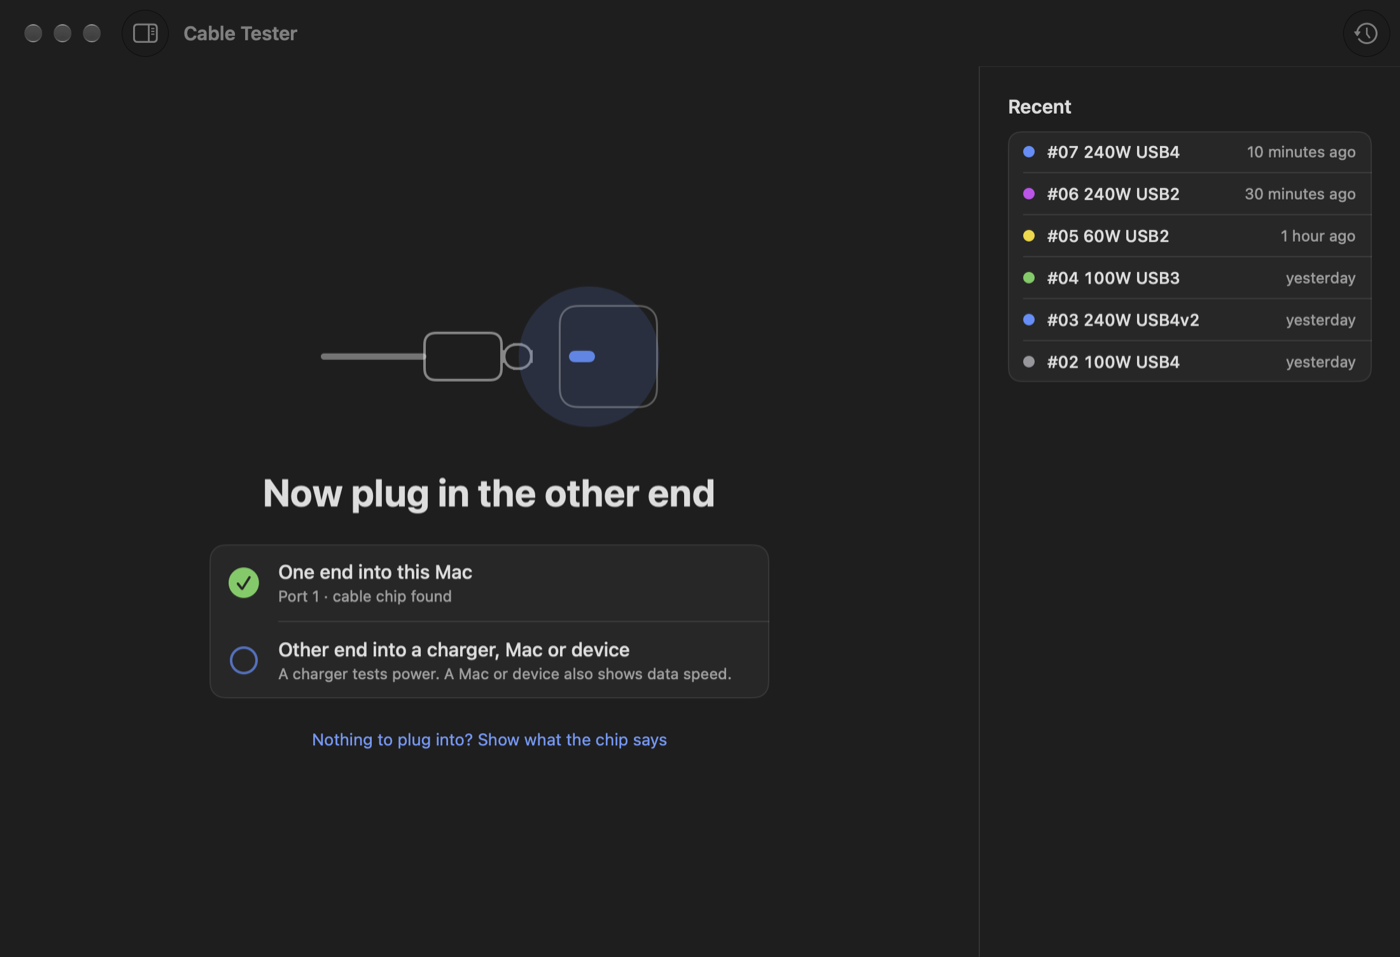
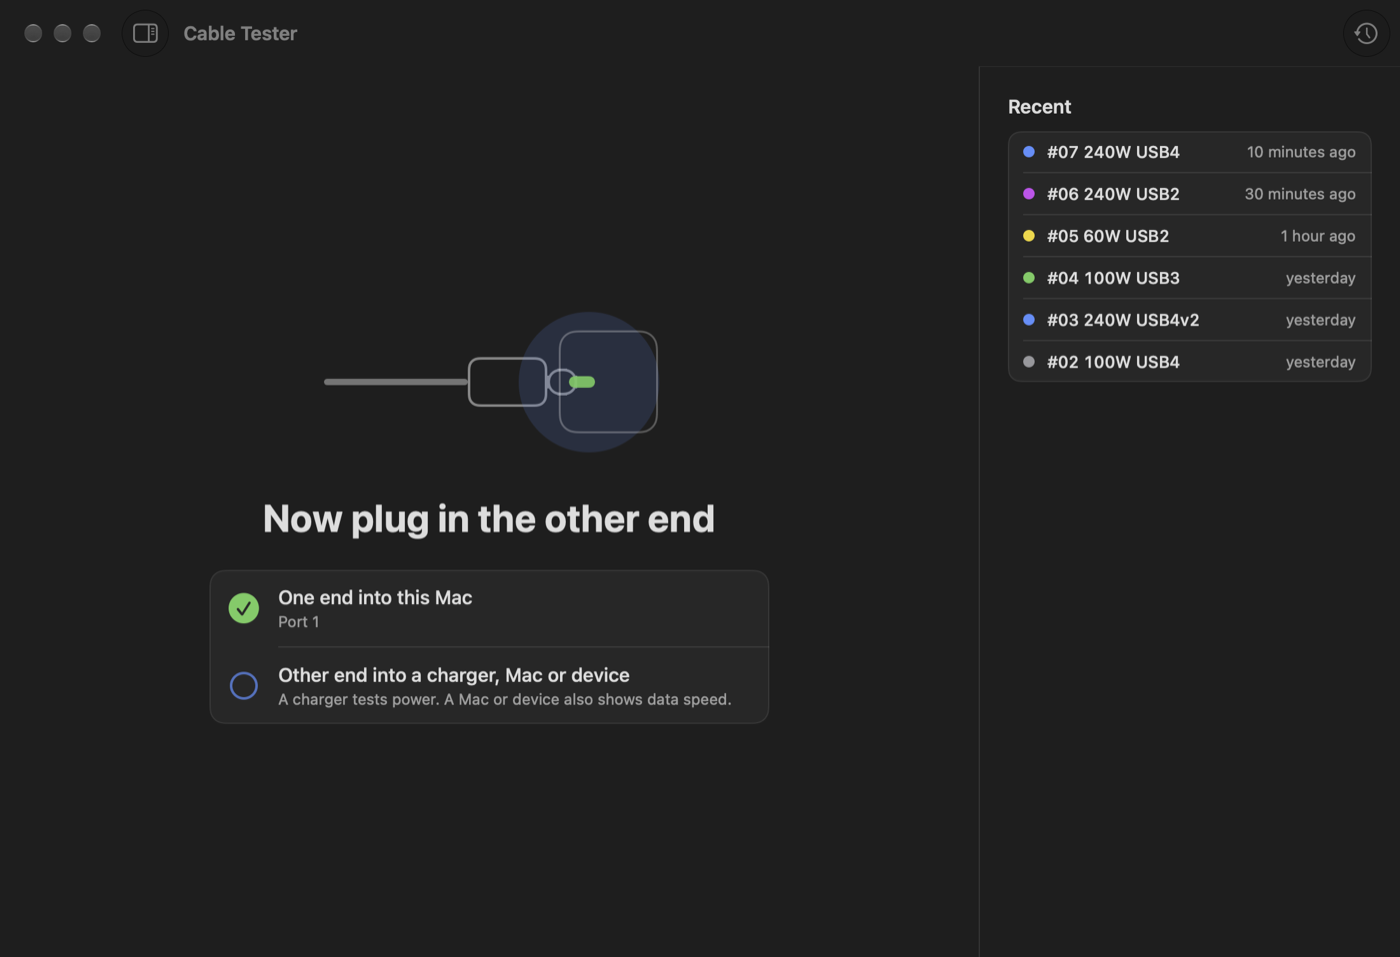
feat(now): plug slides in, spring checks; drop chip-before-far-end UI
The Mac cannot read the chip until the far end is connected (docs/emarker.md),
so the 'cable chip found' detail and 'show what the chip says' link could never
appear. Adds the approved animation mockup (.impeccable/plug-animation.html).

Claude-Session: https://claude.ai/code/session_01SkyGaV5TrCqkCmeLbS41R6

Changed region(s): [[0.1536, 0.303, 0.5221, 0.7879]]

diff --git a/.impeccable/plug-animation.html b/.impeccable/plug-animation.html
@@ -1,0 +1,157 @@
+<!doctype html>
+<html lang="en">
+<head>
+<meta charset="utf-8">
+<meta name="viewport" content="width=device-width, initial-scale=1">
+<title>Plug-in Animation</title>
+<style>
+  :root {
+    --page: #141416; --win: #1e1e1e; --group: rgba(255,255,255,.045); --stroke: rgba(255,255,255,.09);
+    --text: #f5f5f7; --sec: rgba(235,235,245,.6); --ter: rgba(235,235,245,.3);
+    --green: #32d74b; --blue: #0a84ff;
+  }
+  * { box-sizing: border-box; }
+  body { margin: 0; padding: 28px 16px 40px; background: var(--page); color: var(--text);
+         font: 14px -apple-system, BlinkMacSystemFont, "SF Pro Text", system-ui, sans-serif; }
+  h1 { font-size: 20px; font-weight: 600; margin: 0 auto 4px; max-width: 1100px; }
+  .sub { color: var(--sec); margin: 0 auto 18px; max-width: 1100px; }
+
+  /* The window: real snapshots at 1100 x 752, the checklist drawn live on top. */
+  .stage { position: relative; width: 1100px; max-width: 100%; aspect-ratio: 1100 / 752; margin: 0 auto;
+           border-radius: 12px; overflow: hidden; box-shadow: 0 20px 60px rgba(0,0,0,.55); container-type: inline-size; }
+  .stage img { position: absolute; inset: 0; width: 100%; height: 100%; display: block; }
+  .result { opacity: 0; transform: scale(.98); transition: opacity .35s ease, transform .35s cubic-bezier(.3,1.3,.5,1); }
+  .stage.show-result .result { opacity: 1; transform: none; }
+
+  /* everything below is in units of the 1100 px window, scaled with cqw */
+  .pane { position: absolute; left: 0; top: 6.9%; width: 69.8%; bottom: 0; background: var(--win);
+          display: flex; flex-direction: column; align-items: center; justify-content: center; gap: 2.2cqw; }
+  .illus { width: 23.6cqw; height: 11.8cqw; position: relative; }
+  .illus .wire { position: absolute; left: 0; top: 50%; width: 30%; height: .45cqw; margin-top: -.22cqw; background: rgba(235,235,245,.42); border-radius: 1cqw;
+                 transition: transform .5s ease; }
+  .illus .plug { position: absolute; left: 30%; top: 35%; width: 24%; height: 30%; border: .18cqw solid rgba(235,235,245,.5); border-radius: .8cqw;
+                 transition: transform .5s cubic-bezier(.3,1.2,.5,1); }
+  .illus .tip { position: absolute; left: 54%; top: 42%; width: 9%; height: 16%; border: .18cqw solid rgba(235,235,245,.5); border-radius: 1cqw;
+                transition: transform .5s cubic-bezier(.3,1.2,.5,1); }
+  .illus .glow { position: absolute; left: 62%; top: 7.5%; width: 37%; aspect-ratio: 1; border-radius: 50%; background: var(--blue);
+                 filter: blur(.5cqw); animation: glow 1.6s ease-in-out infinite alternate; }
+  .illus .port { position: absolute; left: 71%; top: 19%; width: 30%; height: 62%; border: .14cqw solid rgba(235,235,245,.32); border-radius: 1.3cqw; }
+  .illus .slot { position: absolute; left: 74%; top: 46.5%; width: 8%; height: 7%; border-radius: 1cqw; background: var(--blue); opacity: .9;
+                 transition: background .3s; }
+  @keyframes glow { from { opacity: .08 } to { opacity: .22 } }
+  .s1 .illus .plug, .s2 .illus .plug, .s3 .illus .plug { transform: translateX(3.2cqw); }
+  .s1 .illus .tip,  .s2 .illus .tip,  .s3 .illus .tip  { transform: translateX(3.2cqw); }
+  .s1 .illus .wire, .s2 .illus .wire, .s3 .illus .wire { transform: scaleX(1.95); transform-origin: left; }
+  .s1 .illus .slot, .s2 .illus .slot, .s3 .illus .slot { background: var(--green); }
+
+  .title { font-size: 2.75cqw; font-weight: 700; letter-spacing: -.01em; height: 3.4cqw; position: relative; width: 60cqw; text-align: center; }
+  .title span { position: absolute; inset: 0; opacity: 0; transition: opacity .25s ease; }
+  .s0 .title .t0, .s1 .title .t1, .s2 .title .t2, .s3 .title .t2 { opacity: 1; }
+
+  .list { width: 40cqw; background: var(--group); border: 1px solid var(--stroke); border-radius: 1.1cqw; }
+  .row { display: flex; align-items: center; gap: 1.27cqw; padding: 1.1cqw 1.27cqw; }
+  .row + .row { border-top: 1px solid var(--stroke); margin-left: 0; }
+  .mark { width: 2.36cqw; height: 2.36cqw; position: relative; flex: none; }
+  .ring { position: absolute; inset: .18cqw; border-radius: 50%; border: .18cqw solid rgba(235,235,245,.3); transition: opacity .2s; }
+  .ring.active { border-color: var(--blue); animation: ring 1.6s ease-in-out infinite alternate; }
+  @keyframes ring { from { opacity: .45 } to { opacity: 1 } }
+  .check { position: absolute; inset: 0; opacity: 0; transform: scale(.4); }
+  .check svg { width: 100%; height: 100%; display: block; }
+  .check path { stroke-dasharray: 20; stroke-dashoffset: 20; }
+  .row.done .ring { opacity: 0; }
+  .row.done .check { opacity: 1; transform: scale(1); transition: opacity .15s, transform .45s cubic-bezier(.3,1.8,.5,1); }
+  .row.done .check path { stroke-dashoffset: 0; transition: stroke-dashoffset .3s .12s ease-out; }
+  .row .label { font-size: 1.36cqw; font-weight: 500; color: var(--sec); transition: color .2s; }
+  .row.done .label, .row.on .label { color: var(--text); }
+  .row .detail { font-size: 1.09cqw; color: var(--sec); margin-top: .18cqw; position: relative; height: 1.5cqw; }
+  .row .detail span { position: absolute; left: 0; white-space: nowrap; transition: opacity .25s; }
+  .row .detail .after { opacity: 0; }
+  .row.done .detail .before { opacity: 0; }
+  .row.done .detail .after { opacity: 1; }
+  .foot { font-size: 1.09cqw; color: var(--ter); height: 1.6cqw; text-align: center; transition: opacity .25s; }
+  .s1 .foot, .s2 .foot, .s3 .foot { opacity: 0; }
+
+  .controls { max-width: 1100px; margin: 16px auto 0; display: flex; flex-wrap: wrap; gap: 8px; align-items: center; }
+  button { font: inherit; color: var(--text); background: #2c2c2e; border: 1px solid #3a3a3c; border-radius: 8px; padding: 6px 12px; cursor: pointer; }
+  button:hover { background: #3a3a3c; }
+  .steps { display: flex; gap: 6px; margin-left: auto; flex-wrap: wrap; }
+  .steps button.cur { border-color: var(--blue); color: #fff; }
+  .note { max-width: 1100px; margin: 14px auto 0; color: var(--sec); line-height: 1.5; }
+  .note b { color: var(--text); font-weight: 600; }
+  @media (prefers-reduced-motion: reduce) { * { animation: none !important; transition: none !important; } }
+</style>
+</head>
+<body>
+<h1>Cable Tester: plug-in animation</h1>
+<p class="sub">Loops through one test: plug the Mac end in, then the buds, then the result, then unplug.</p>
+
+<div class="stage s0" id="stage">
+  <img src="mocks/anim-base.png" alt="">
+  <div class="pane">
+    <div class="illus" aria-hidden="true">
+      <div class="glow"></div><div class="port"></div><div class="slot"></div>
+      <div class="wire"></div><div class="plug"></div><div class="tip"></div>
+    </div>
+    <div class="title">
+      <span class="t0">Plug in a cable you want to test</span>
+      <span class="t1">Now plug in the other end</span>
+      <span class="t2">Reading the cable…</span>
+    </div>
+    <div class="list">
+      <div class="row" id="r1">
+        <div class="mark"><div class="ring"></div><div class="check"><svg viewBox="0 0 24 24"><circle cx="12" cy="12" r="11" fill="#32d74b"/><path d="M7 12.5l3.3 3.3L17 9" fill="none" stroke="#fff" stroke-width="2.4" stroke-linecap="round" stroke-linejoin="round"/></svg></div></div>
+        <div><div class="label">One end into this Mac</div><div class="detail"><span class="before">Any USB-C port</span><span class="after">Port 1</span></div></div>
+      </div>
+      <div class="row" id="r2">
+        <div class="mark"><div class="ring"></div><div class="check"><svg viewBox="0 0 24 24"><circle cx="12" cy="12" r="11" fill="#32d74b"/><path d="M7 12.5l3.3 3.3L17 9" fill="none" stroke="#fff" stroke-width="2.4" stroke-linecap="round" stroke-linejoin="round"/></svg></div></div>
+        <div><div class="label">Other end into a charger, Mac or device</div><div class="detail"><span class="before">A charger tests power. A Mac or device also shows data speed.</span><span class="after">Arctis GameBuds</span></div></div>
+      </div>
+    </div>
+    <div class="foot">A cable that was already connected is ignored. Unplug and replug it to test it.</div>
+  </div>
+  <img class="result" src="mocks/anim-result.png" alt="Result: 240 W, USB 2 at 12 Mb/s">
+</div>
+
+<div class="controls">
+  <button id="play">Pause</button>
+  <button id="next">Next step</button>
+  <div class="steps" id="steps"></div>
+</div>
+<p class="note"><b>Timing:</b> each check pops in with a small bounce and draws its tick. The title cross-fades.
+After the second check, both stay on screen for 0.9 s, then the result fades and scales in.
+Unplugging fades straight back to the start.</p>
+
+<script>
+  const stage = document.getElementById('stage'), r1 = document.getElementById('r1'), r2 = document.getElementById('r2');
+  const STEPS = [
+    { name: 'Start', hold: 2200, s: 0 },
+    { name: 'Mac end in', hold: 2400, s: 1 },
+    { name: 'Other end in', hold: 900, s: 2 },
+    { name: 'Result', hold: 3200, s: 4 },
+  ];
+  let i = 0, timer = null, playing = true;
+  const stepsEl = document.getElementById('steps');
+  STEPS.forEach((st, k) => {
+    const b = document.createElement('button'); b.textContent = st.name;
+    b.onclick = () => { pause(); show(k); };
+    stepsEl.appendChild(b);
+  });
+  function show(k) {
+    i = k; const s = STEPS[k].s;
+    stage.className = 'stage s' + Math.min(s, 3) + (s === 4 ? ' s3 show-result' : '');
+    r1.className = 'row' + (s >= 1 ? ' done' : ' on');
+    r1.querySelector('.ring').classList.toggle('active', s === 0);
+    r2.className = 'row' + (s >= 2 ? ' done' : s === 1 ? ' on' : '');
+    r2.querySelector('.ring').classList.toggle('active', s === 1);
+    [...stepsEl.children].forEach((b, n) => b.classList.toggle('cur', n === k));
+  }
+  function tick() { timer = setTimeout(() => { show((i + 1) % STEPS.length); tick(); }, STEPS[i].hold); }
+  function pause() { playing = false; clearTimeout(timer); document.getElementById('play').textContent = 'Play'; }
+  document.getElementById('play').onclick = () => {
+    if (playing) pause(); else { playing = true; document.getElementById('play').textContent = 'Pause'; tick(); }
+  };
+  document.getElementById('next').onclick = () => { pause(); show((i + 1) % STEPS.length); };
+  show(0); tick();
+</script>
+</body>
+</html>

diff --git a/App/Views/NowView.swift b/App/Views/NowView.swift
@@ -9,8 +9,6 @@ struct NowView: View {
     @Binding var savingResult: CableResult?
     /// The plug session whose result is on screen (set a moment after both checks tick).
     @State private var shownKey: String?
-    /// The plug session where the user asked to see the chip before the far end was connected.
-    @State private var forcedKey: String?
 
     private var plugKey: String? {
         guard let n = monitor.focusedPort else { return nil }
@@ -26,7 +24,6 @@ struct NowView: View {
 
     private var showingResult: Bool {
         guard monitor.result != nil, let key = plugKey else { return false }
-        if forcedKey == key { return true }
         return bothEnds && (monitor.isDemo || shownKey == key)
     }
 
@@ -38,9 +35,7 @@ struct NowView: View {
                         .transition(.opacity.combined(with: .scale(scale: 0.98)))
                 } else {
                     PlugChecklistView(port: monitor.focusedPortState, result: monitor.result,
-                                      otherConnected: monitor.otherConnectedCount) {
-                        withAnimation(.snappy) { forcedKey = plugKey }
-                    }
+                                      otherConnected: monitor.otherConnectedCount)
                     .transition(.opacity)
                 }
             }
@@ -74,7 +69,6 @@ struct PlugChecklistView: View {
     var port: PortState?
     var result: CableResult?
     var otherConnected: Int
-    var showChipAnyway: () -> Void
     @State private var pulse = false
 
     private var macDone: Bool { port?.connectionActive == true }
@@ -86,7 +80,7 @@ struct PlugChecklistView: View {
 
     var body: some View {
         VStack(spacing: 24) {
-            PlugIllustration(pulse: pulse)
+            PlugIllustration(pulse: pulse, plugged: macDone)
                 .frame(width: 260, height: 130)
             Text(title).font(.system(size: 30, weight: .bold))
                 .contentTransition(.opacity)
@@ -106,8 +100,8 @@ struct PlugChecklistView: View {
             footer.frame(maxWidth: 440)
         }
         .padding(40)
-        .animation(.snappy, value: macDone)
-        .animation(.snappy, value: farDone)
+        .animation(.spring(response: 0.45, dampingFraction: 0.6), value: macDone)
+        .animation(.spring(response: 0.45, dampingFraction: 0.6), value: farDone)
         .onAppear { withAnimation(.easeInOut(duration: 1.6).repeatForever(autoreverses: true)) { pulse = true } }
     }
 
@@ -119,7 +113,8 @@ struct PlugChecklistView: View {
 
     private var macDetail: String {
         guard macDone, let port else { return "Any USB-C port" }
-        return "Port \(port.number)" + (port.cable != nil ? " · cable chip found" : "")
+        // The chip is only readable once the far end is connected (docs/emarker.md).
+        return "Port \(port.number)"
     }
 
     private var farDetail: String {
@@ -134,10 +129,7 @@ struct PlugChecklistView: View {
     }
 
     @ViewBuilder private var footer: some View {
-        if macDone, !farDone, port?.cable != nil {
-            Button("Nothing to plug into? Show what the chip says", action: showChipAnyway)
-                .buttonStyle(.link).font(.system(size: 13))
-        } else if !macDone, otherConnected > 0 {
+        if !macDone, otherConnected > 0 {
             Text(otherConnected == 1
                  ? "A cable that was already connected is ignored. Unplug and replug it to test it."
                  : "\(otherConnected) cables that were already connected are ignored. Unplug and replug one to test it.")
@@ -161,7 +153,7 @@ struct StepRow: View {
                     Image(systemName: "checkmark.circle.fill")
                         .font(.system(size: 24))
                         .foregroundStyle(Palette.power)
-                        .transition(.scale.combined(with: .opacity))
+                        .transition(.scale(scale: 0.4).combined(with: .opacity))
                 } else {
                     Circle().strokeBorder(active ? Palette.thunderbolt.opacity(pulse ? 1 : 0.45) : Color.secondary.opacity(0.4),
                                           lineWidth: 2)
@@ -183,26 +175,30 @@ struct StepRow: View {
     }
 }
 
-/// A USB-C plug heading for a port, with a soft glow at the port.
+/// A USB-C plug heading for a port, with a soft glow at the port. When `plugged`, the plug slides
+/// in and the port light turns green.
 struct PlugIllustration: View {
     var pulse: Bool
+    var plugged = false
 
     var body: some View {
         GeometryReader { g in
             let w = g.size.width, h = g.size.height
+            let shift = plugged ? w * 0.135 : 0
             ZStack {
                 // cable
-                Path { p in p.move(to: CGPoint(x: 0, y: h * 0.5)); p.addLine(to: CGPoint(x: w * 0.30, y: h * 0.5)) }
-                    .stroke(Color.secondary.opacity(0.7), style: StrokeStyle(lineWidth: 5, lineCap: .round))
+                Capsule().fill(Color.secondary.opacity(0.7))
+                    .frame(width: w * 0.30 + shift, height: 5)
+                    .position(x: (w * 0.30 + shift) / 2, y: h * 0.5)
                 // plug body
                 RoundedRectangle(cornerRadius: 9, style: .continuous)
                     .strokeBorder(Color.secondary.opacity(0.85), lineWidth: 2)
                     .frame(width: w * 0.24, height: h * 0.30)
-                    .position(x: w * 0.42, y: h * 0.5)
+                    .position(x: w * 0.42 + shift, y: h * 0.5)
                 // plug tip
                 Capsule().strokeBorder(Color.secondary.opacity(0.85), lineWidth: 2)
                     .frame(width: w * 0.09, height: h * 0.16)
-                    .position(x: w * 0.585, y: h * 0.5)
+                    .position(x: w * 0.585 + shift, y: h * 0.5)
                 // glow + port on the Mac's side
                 Circle().fill(Palette.thunderbolt.opacity(pulse ? 0.22 : 0.08))
                     .frame(width: h * 0.85, height: h * 0.85)
@@ -212,7 +208,7 @@ struct PlugIllustration: View {
                     .strokeBorder(Color.secondary.opacity(0.5), lineWidth: 1.5)
                     .frame(width: w * 0.30, height: h * 0.62)
                     .position(x: w * 0.86, y: h * 0.5)
-                Capsule().fill(Palette.thunderbolt.opacity(0.9))
+                Capsule().fill((plugged ? Palette.power : Palette.thunderbolt).opacity(0.9))
                     .frame(width: w * 0.08, height: h * 0.07)
                     .position(x: w * 0.78, y: h * 0.5)
             }

diff --git a/App/Demo.swift b/App/Demo.swift
@@ -50,7 +50,7 @@ enum Demo {
                                                 links: [LiveLink(kind: .usb2, speed: .mbps(480), deviceName: "Mac mini")])],
                                charger: nil, focused: 1, pluggedAt: at.addingTimeInterval(-1))
         case .cableonly:
-            return PortMonitor(demoPorts: [port(noName240)], charger: nil, focused: 1, pluggedAt: at)
+            return PortMonitor(demoPorts: [port(nil)], charger: nil, focused: 1, pluggedAt: at)
         case .device:
             return PortMonitor(demoPorts: [port(noName240, links: [LiveLink(kind: .usb2, speed: .mbps(12), deviceName: "Arctis GameBuds")])],
                                charger: nil, focused: 1, pluggedAt: at)

diff --git a/docs/app-spec-and-plan.md b/docs/app-spec-and-plan.md
@@ -92,9 +92,8 @@ label via the system print dialog.
 ## Plug-in flow (2026-11-22, v0.3.0, Max)
 - One cable at a time, plugged in then and there. On launch the app ignores everything already
   connected and says "Plug in a cable you want to test" (a note mentions ignored cables).
-- A checklist ticks off "One end into this Mac" (port, "cable chip found") and "Other end into a
-  charger, Mac or device" (its name). Both ticked: hold ~0.9 s, then the result.
-- A chipped cable with nothing to plug into can show its chip anyway (link under the checklist).
+- A checklist ticks off "One end into this Mac" (port number: the Mac sees CC but cannot read the chip
+  yet) and "Other end into a charger, Mac or device" (its name). Both ticked: hold ~0.9 s, then the result.
 - Unplugging returns to the checklist; it never jumps to another connected cable.
 - The charger is tied to the port when it appears within 10 s of the cable or of the port's far end.
 - Rejected: port strip, port sidebar, toolbar pills for several cables at once.
